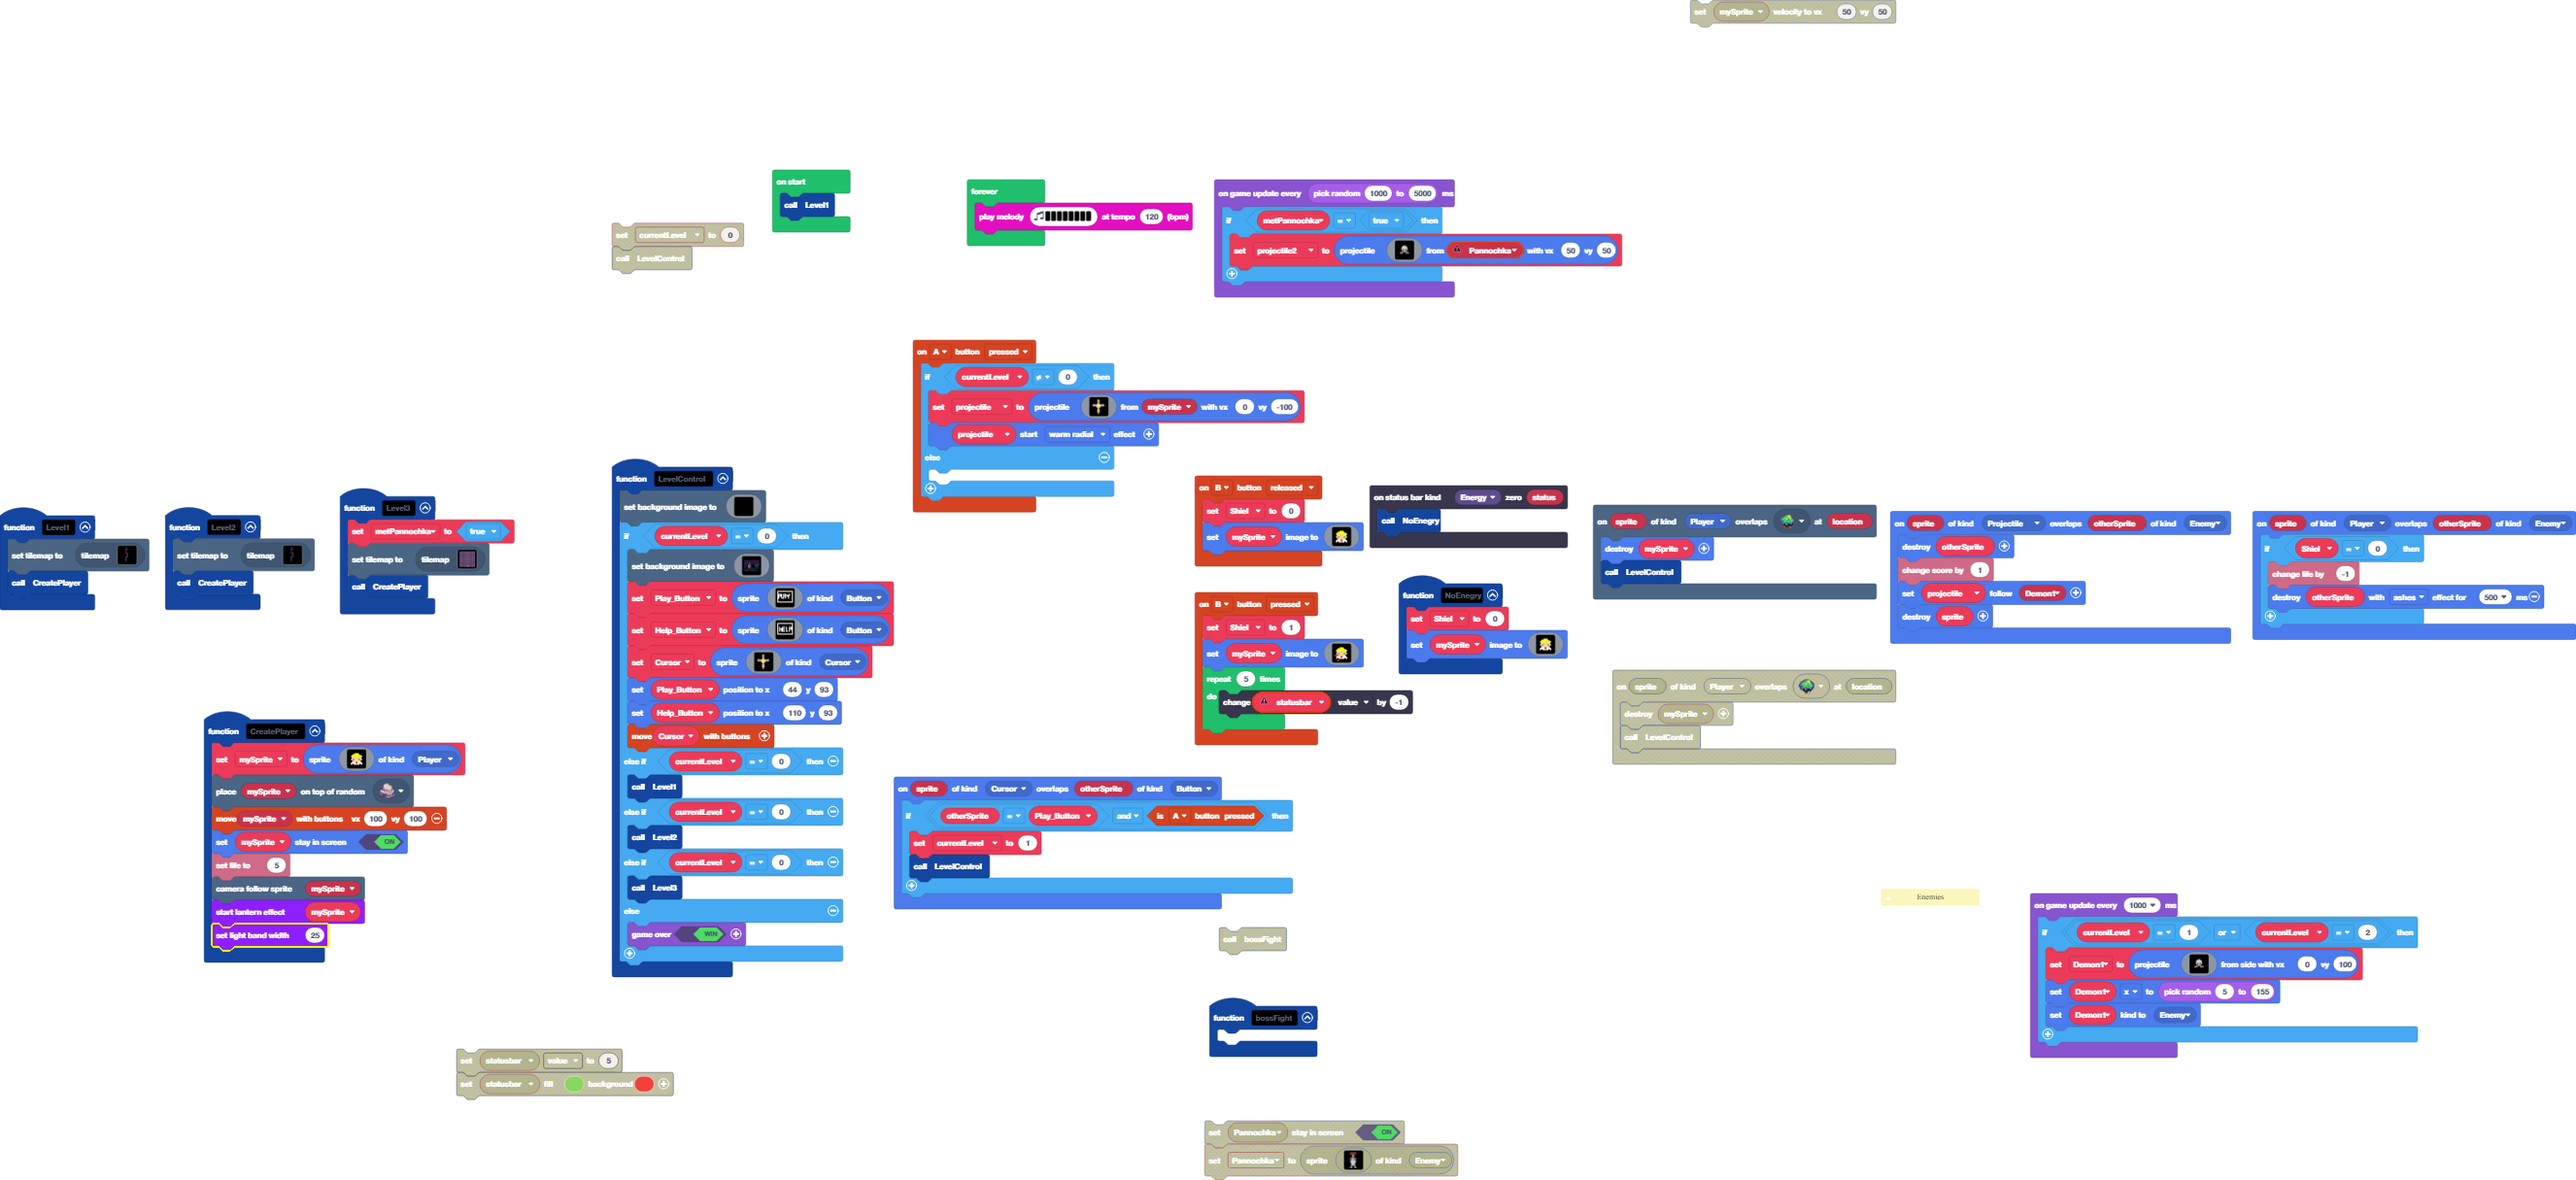
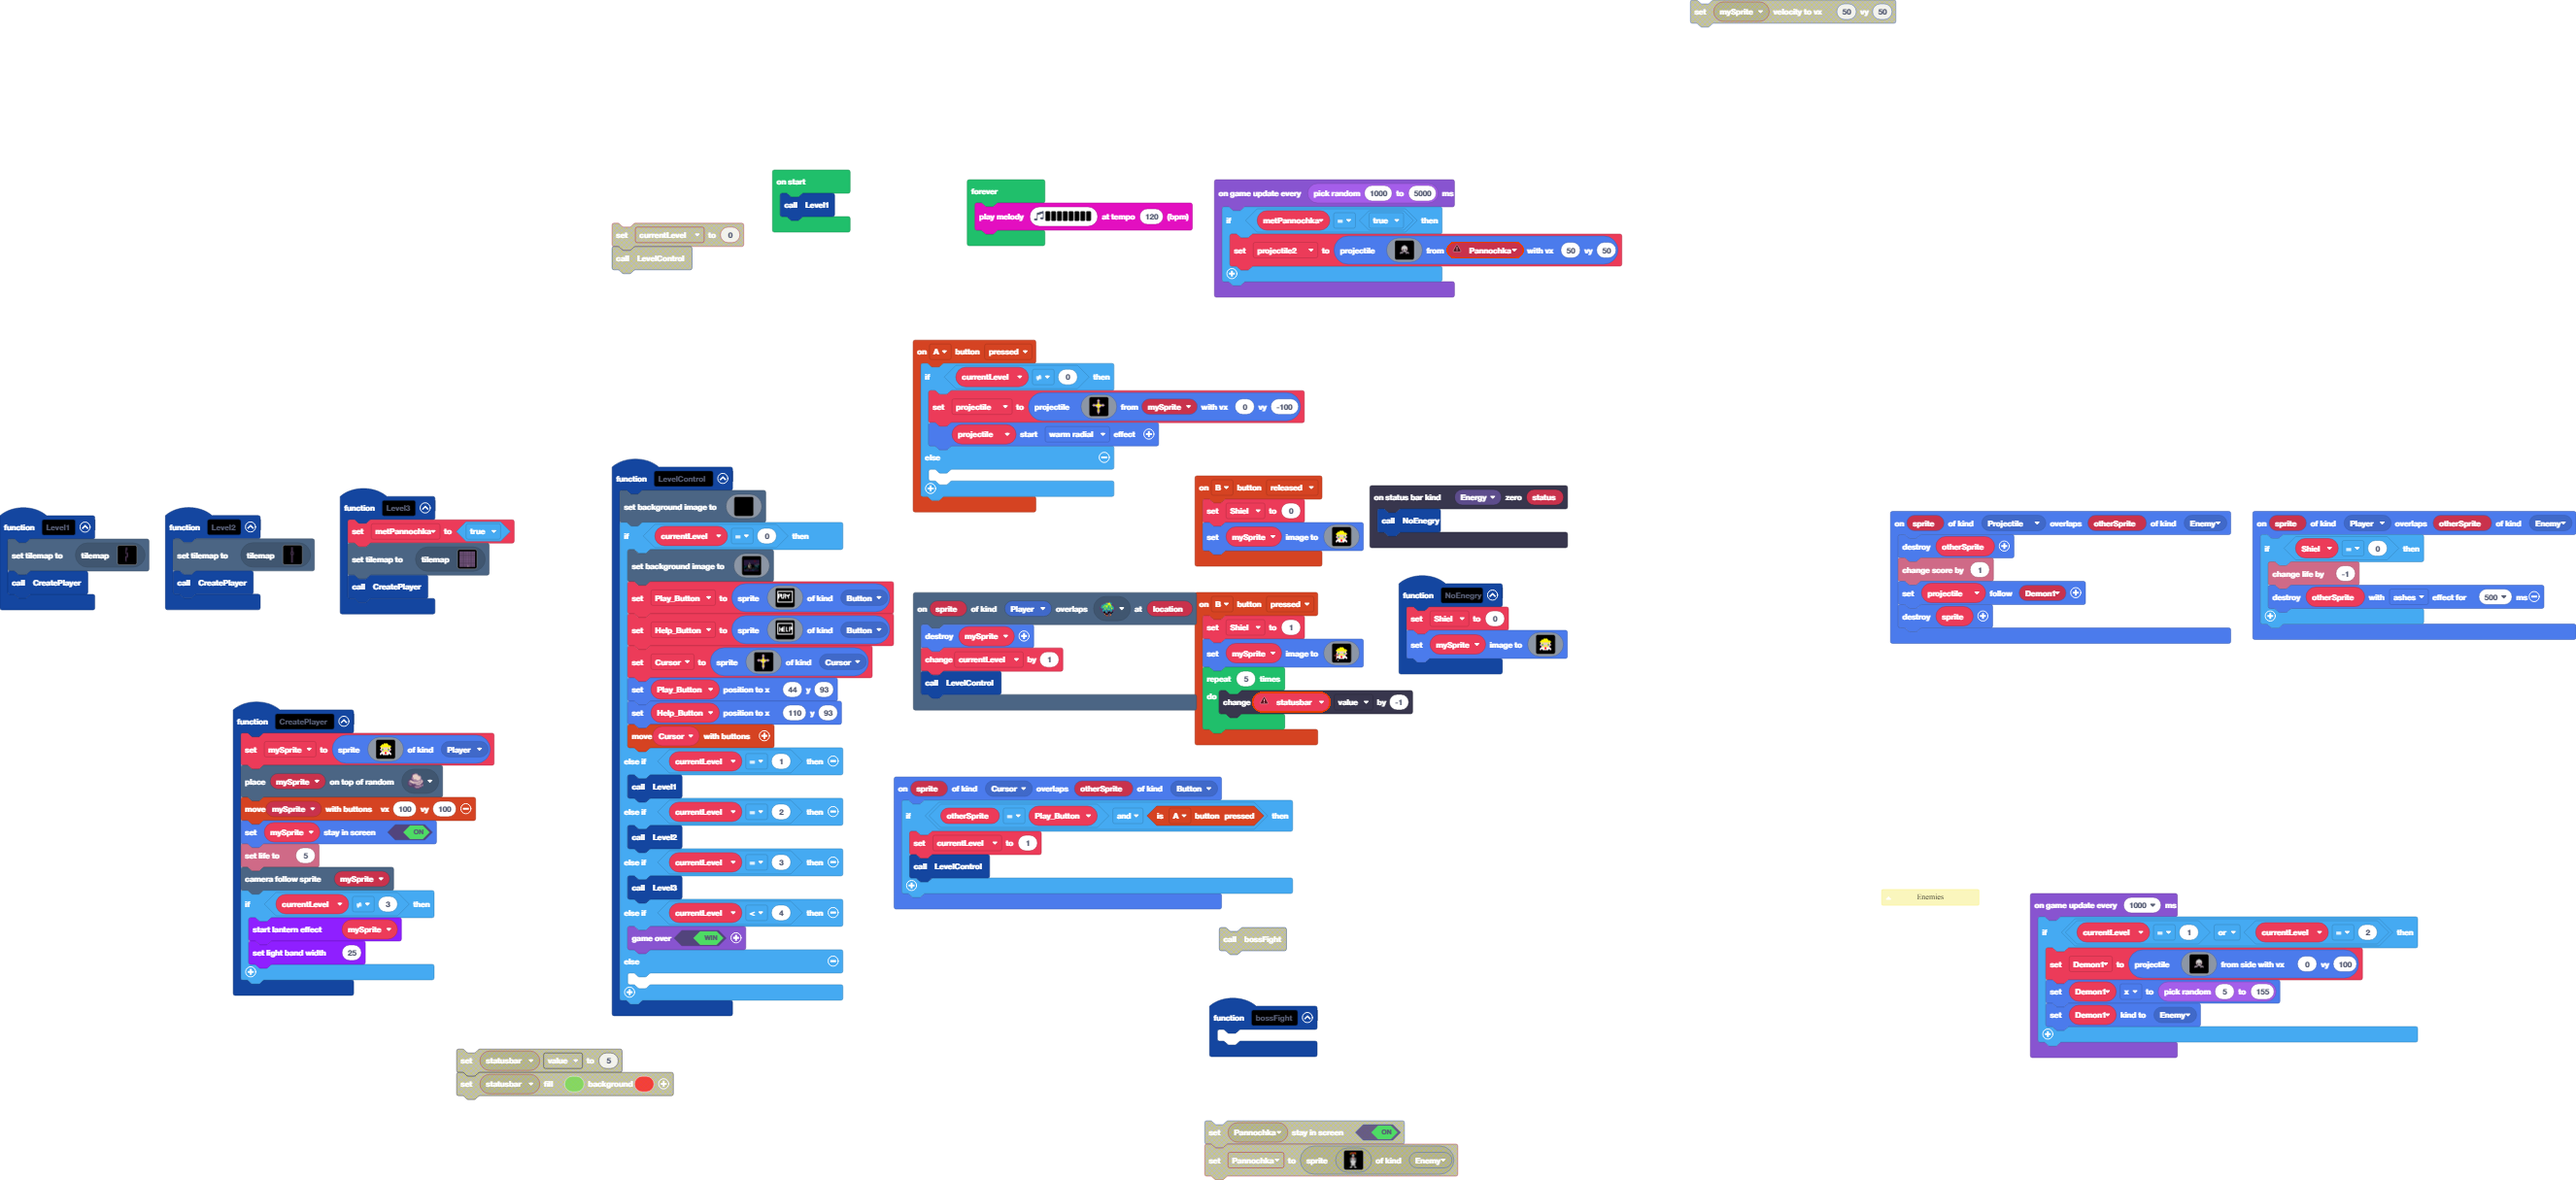
Update main.blocks, main.ts, tilemap.g.jres, tilemap.g.ts

diff --git a/tilemap.g.ts b/tilemap.g.ts
@@ -163,59 +163,6 @@ namespace myTiles {
 . . . . . . . . . . . . . . . . 
 . . . . . . . . . . . . . . . . 
 `, [myTiles.transparency16], TileScale.Sixteen);
-            case "level2":
[1 lines of base64/hex data omitted]
-22.....222
-22.....222
-22.....222
-22.....222
-22.....222
-22.....222
-22.....222
-22.....222
-22.....222
-22.....222
-22.....222
-22.....222
-22.....222
-22.....222
-22.....222
-..........
-..........
-..........
-...2222...
-...2222...
-...2222...
-...2222...
-..........
-..........
-..........
-22.....222
-22.....222
-22.....222
-22.....222
-22.....222
-22.....222
-22.....222
-22.....222
-22.....222
-22.....222
-22.....222
-22.....222
-22.....222
-22.....222
-22.....222
-22.....222
-22.....222
-22.....222
-22.....222
-22.....222
-22.....222
-22.....222
-22.....222
-22.....222
-22.....222
-`, [myTiles.transparency16,myTiles.tile1,myTiles.tile3], TileScale.Sixteen);
             case "level1":
[1 lines of base64/hex data omitted]
 2222222222
@@ -282,6 +229,59 @@ namespace myTiles {
 2 . . . . . . . . 2 
 2 . . . . . . . . 2 
 `, [myTiles.transparency16,sprites.castle.rock0,myTiles.tile1], TileScale.Sixteen);
+            case "level2":
[1 lines of base64/hex data omitted]
+22.....222
+22.....222
+22.....222
+22.....222
+22.....222
+22.....222
+22.....222
+22.....222
+22.....222
+22.....222
+22.....222
+22.....222
+22.....222
+22.....222
+22.....222
+..........
+..........
+..........
+...2222...
+...2222...
+...2222...
+...2222...
+..........
+..........
+..........
+22.....222
+22.....222
+22.....222
+22.....222
+22.....222
+22.....222
+22.....222
+22.....222
+22.....222
+22.....222
+22.....222
+22.....222
+22.....222
+22.....222
+22.....222
+22.....222
+22.....222
+22.....222
+22.....222
+22.....222
+22.....222
+22.....222
+22.....222
+22.....222
+22.....222
+`, [myTiles.transparency16,myTiles.tile1], TileScale.Sixteen);
         }
         return null;
     })

diff --git a/main.ts b/main.ts
@@ -308,14 +308,16 @@ function LevelControl () {
         Play_Button.setPosition(44, 93)
         Help_Button.setPosition(110, 93)
         controller.moveSprite(Cursor)
-    } else if (currentLevel == 0) {
+    } else if (currentLevel == 1) {
         Level1()
-    } else if (currentLevel == 0) {
+    } else if (currentLevel == 2) {
         Level2()
-    } else if (currentLevel == 0) {
+    } else if (currentLevel == 3) {
         Level3()
-    } else {
+    } else if (currentLevel < 4) {
         game.over(true)
+    } else {
+    	
     }
 }
 controller.B.onEvent(ControllerButtonEvent.Pressed, function () {
@@ -367,14 +369,16 @@ function CreatePlayer () {
     mySprite.setStayInScreen(true)
     info.setLife(5)
     scene.cameraFollowSprite(mySprite)
-    lantern.startLanternEffect(mySprite)
-    lantern.setLightBandWidth(25)
+    if (currentLevel != 3) {
+        lantern.startLanternEffect(mySprite)
+        lantern.setLightBandWidth(25)
+    }
 }
 function bossFight () {
 	
 }
 function Level2 () {
-    tiles.setCurrentTilemap(tilemap`level1`)
+    tiles.setCurrentTilemap(tilemap`level2`)
     CreatePlayer()
 }
 controller.A.onEvent(ControllerButtonEvent.Pressed, function () {
@@ -440,6 +444,7 @@ controller.B.onEvent(ControllerButtonEvent.Released, function () {
 })
 scene.onOverlapTile(SpriteKind.Player, sprites.castle.saplingOak, function (sprite, location) {
     mySprite.destroy()
+    currentLevel += 1
     LevelControl()
 })
 statusbars.onZero(StatusBarKind.Energy, function (status) {
